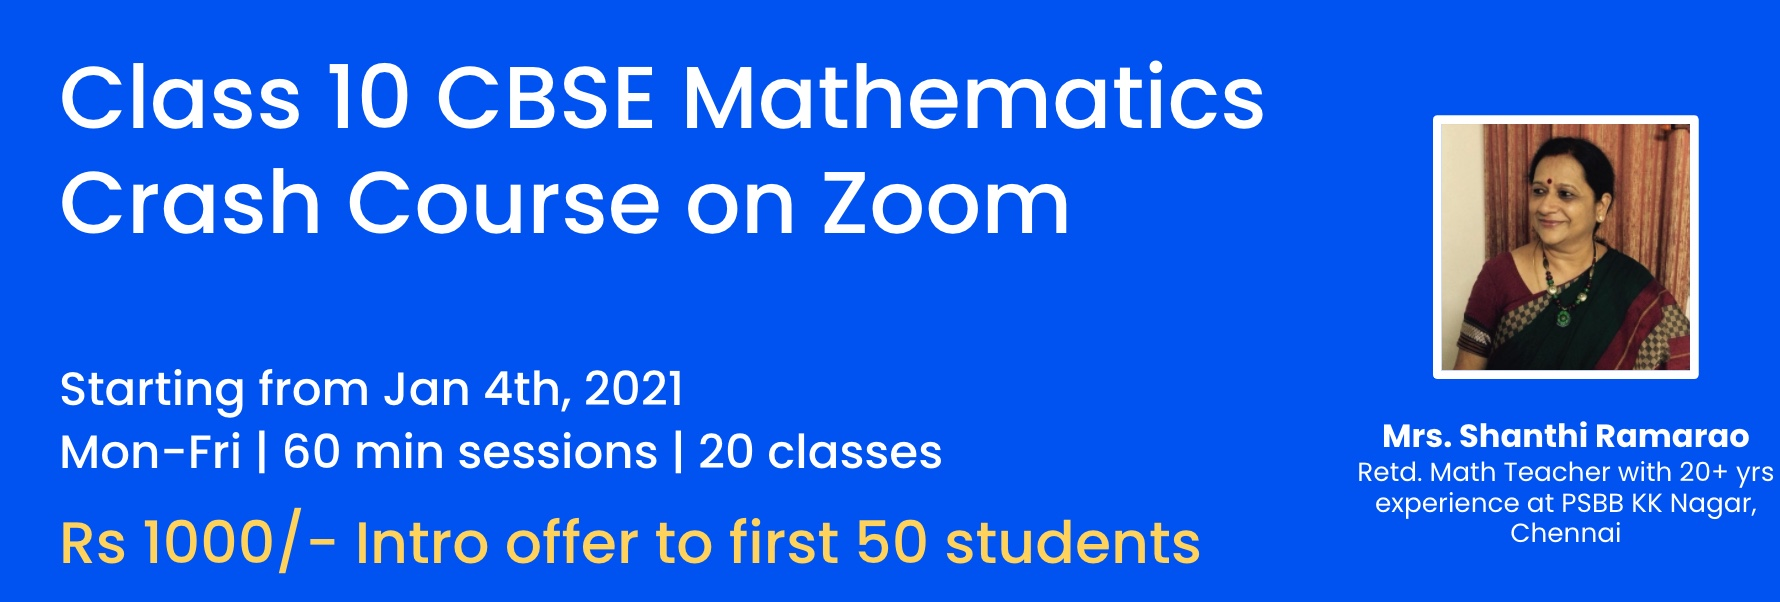
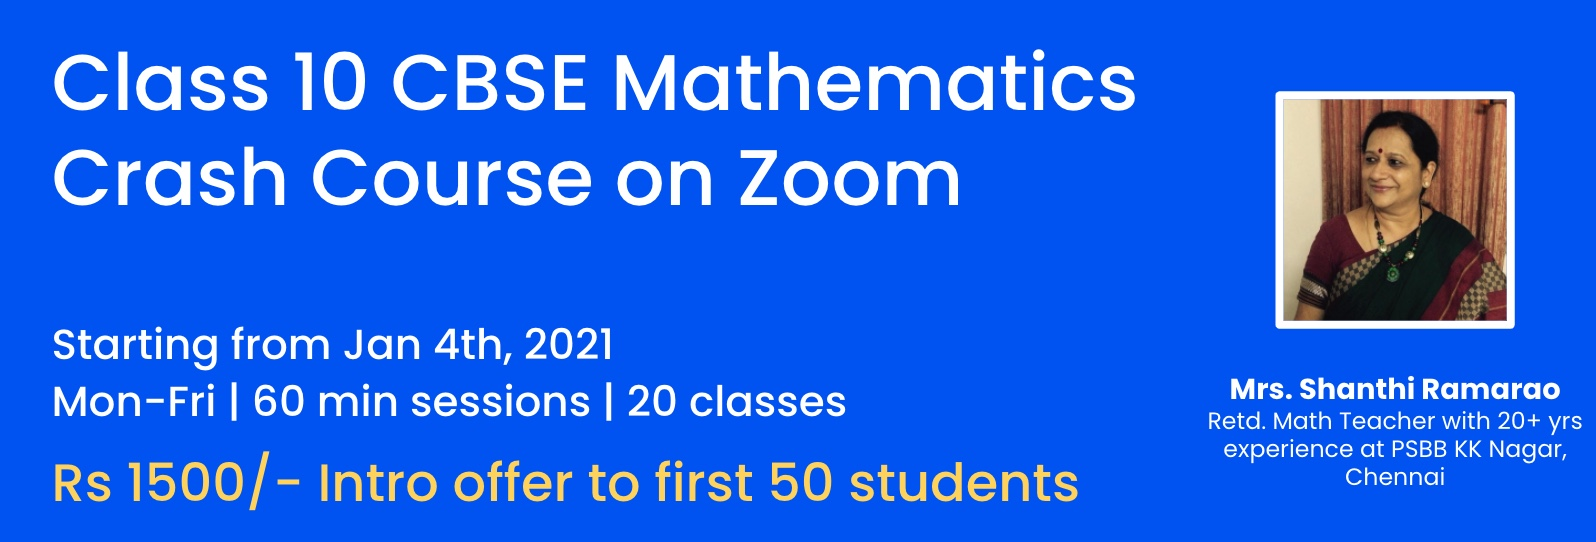
Change pricing and corresponding brochure images

diff --git a/index.html b/index.html
@@ -189,7 +189,7 @@
                     </div> -->
                     <div class="pricing-header text-center">
                         <h5 class="sub-title">Batch 1</h5>
-                        <p class="month"><span class="price">₹ <strike>1500</strike>  1000</span></p>
+                        <p class="month"><span class="price">₹ <strike>2000</strike>  1500</span></p>
                     </div>
                     <div class="pricing-list">
                         <ul>
@@ -212,7 +212,7 @@
                     </div> -->
                     <div class="pricing-header text-center">
                         <h5 class="sub-title">Batch 2</h5>
-                        <p class="month"><span class="price">₹ 1500</span></p>
+                        <p class="month"><span class="price">₹ 2000</span></p>
                     </div>
                     <div class="pricing-list">
                         <ul>
@@ -234,7 +234,7 @@
                     </div> -->
                     <div class="pricing-header text-center">
                         <h5 class="sub-title">Batch 3</h5>
-                        <p class="month"><span class="price">₹ 1500</span></p>
+                        <p class="month"><span class="price">₹ 2000</span></p>
                     </div>
                     <div class="pricing-list">
                         <ul>
